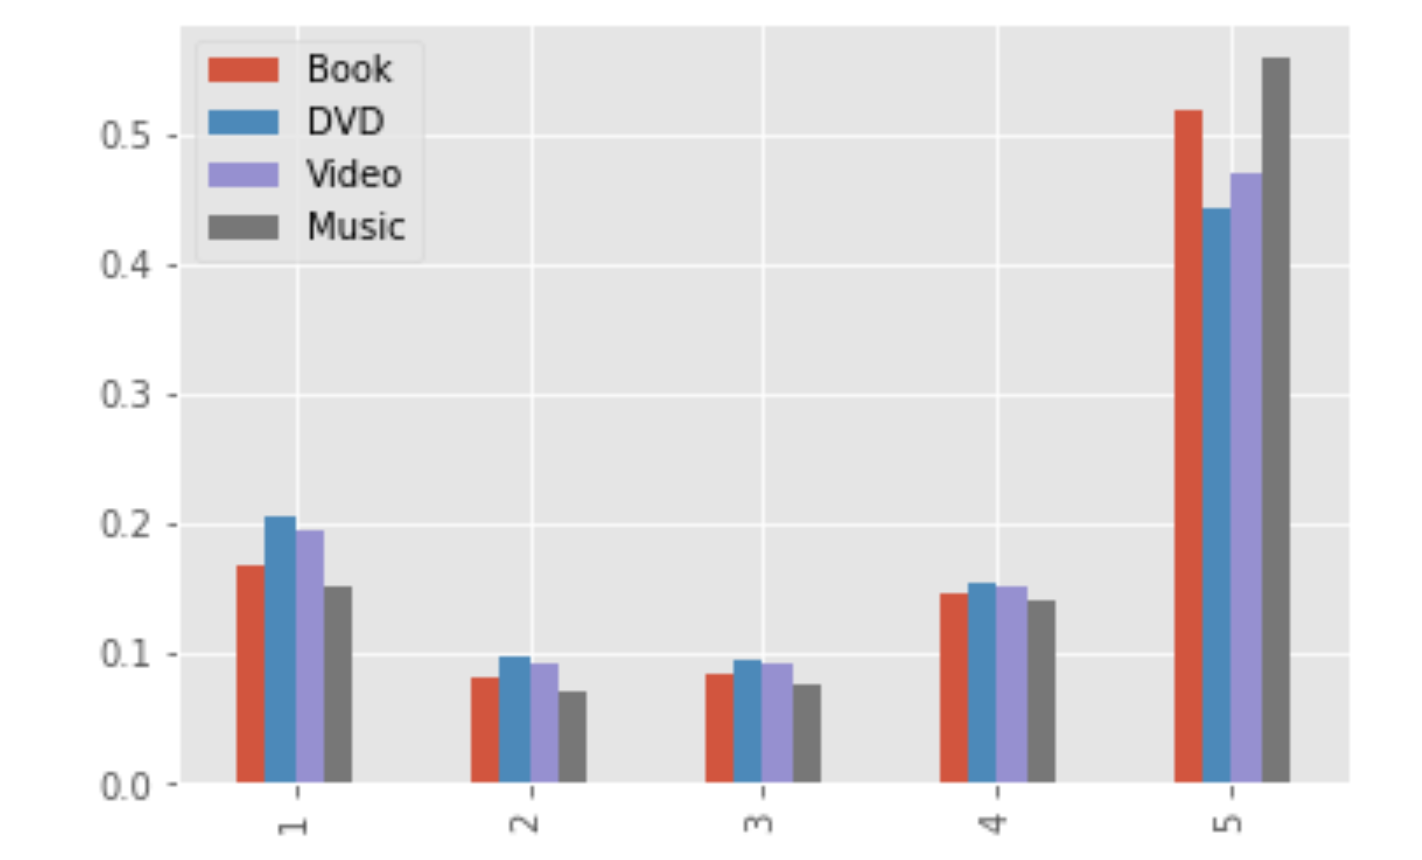
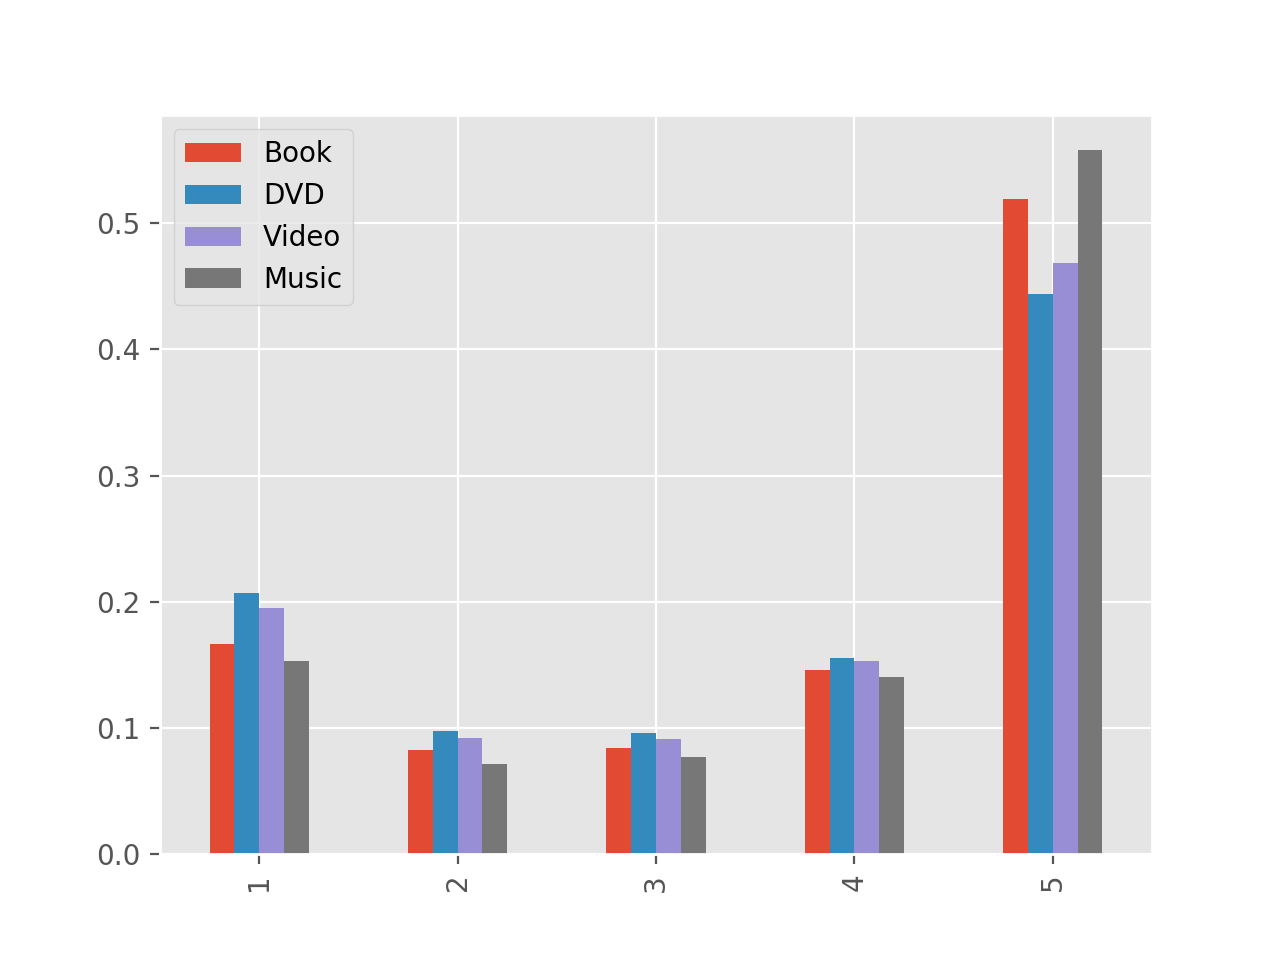
Update

diff --git a/src2/Barplot.py b/src2/Barplot.py
@@ -1,0 +1,41 @@
+#!/usr/bin/env python
+# coding: utf-8
+
+# In[1]:
+
+
+import pandas as pd
+import matplotlib
+import seaborn as sns
+from IPython.core.getipython import get_ipython
+import matplotlib.pyplot as plt
+matplotlib.style.use('ggplot')
+
+
+
+# In[2]:
+
+
+data = [[4708625, 835200, 780187, 756146], 
+        [2342636, 395239, 368997, 355727],
+        [2385915,389766,366061,381589],
+        [4129800,627849,611979,696966],
+        [14640869,1792572,1875418,2759226]]
+
+
+# In[3]:
+
+
+df = pd.DataFrame(data, 
+                  columns=['Book', 'DVD', 'Video', 'Music'], 
+                  index=range(1,6))
+
+
+# In[ ]:
+
+
+df1=(df / df.sum()).plot(kind='bar')
+df2=df.plot(kind='bar')
+plt.show(df1)
+plt.show(df2)
+
